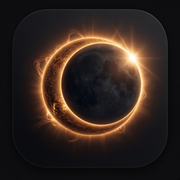
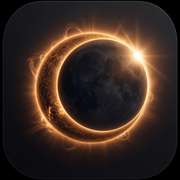
Use the old wordmark, a larger mark, and a black background
The name is Manrope again, lined up with a bigger eclipse. The page background is pure black.

diff --git a/src/components/Brand.tsx b/src/components/Brand.tsx
@@ -1,24 +1,29 @@
 export function BrandMark({ size = 28 }: { size?: number }) {
   return (
     <img
-      src={`${import.meta.env.BASE_URL}brand-mark.jpg`}
+      src={`${import.meta.env.BASE_URL}brand-mark.png`}
       width={size}
       height={size}
       alt=""
       draggable={false}
-      className="shrink-0 rounded-[22%]"
+      className="block shrink-0"
     />
   );
 }
 
 export function BrandWordmark({ size = "md" }: { size?: "sm" | "md" | "lg" }) {
   const scale =
-    size === "lg" ? "text-4xl" : size === "sm" ? "text-[17px]" : "text-2xl";
+    size === "lg"
+      ? "text-[34px] sm:text-[40px]"
+      : size === "sm"
+        ? "text-[15px]"
+        : "text-[22px]";
   return (
     <span
-      className={`font-['Playfair_Display'] font-bold leading-none text-[#D4AF37] ${scale}`}
+      className={`leading-none tracking-[0.26em] text-ink ${scale}`}
+      style={{ fontWeight: 600 }}
     >
-      Umbra
+      UMBRA
     </span>
   );
 }
@@ -26,15 +31,15 @@ export function BrandWordmark({ size = "md" }: { size?: "sm" | "md" | "lg" }) {
 export function BrandLockup({ size = "sm" }: { size?: "sm" | "lg" }) {
   if (size === "lg") {
     return (
-      <span className="inline-flex flex-col items-center gap-3">
-        <BrandMark size={112} />
+      <span className="inline-flex flex-col items-center gap-4">
+        <BrandMark size={132} />
         <BrandWordmark size="lg" />
       </span>
     );
   }
   return (
-    <span className="inline-flex items-center gap-2">
-      <BrandMark size={30} />
+    <span className="inline-flex items-center gap-2.5">
+      <BrandMark size={40} />
       <BrandWordmark size="sm" />
     </span>
   );

diff --git a/index.html b/index.html
@@ -5,14 +5,14 @@
     <link rel="icon" type="image/png" sizes="32x32" href="%BASE_URL%favicon-32.png" />
     <link rel="apple-touch-icon" sizes="180x180" href="%BASE_URL%apple-touch-icon.png" />
     <meta name="viewport" content="width=device-width, initial-scale=1.0, viewport-fit=cover" />
-    <meta name="theme-color" content="#0a0a0a" />
+    <meta name="theme-color" content="#000000" />
     <meta name="description" content="Umbra — личная картотека фильмов и сериалов" />
     <meta name="apple-mobile-web-app-capable" content="yes" />
     <meta name="apple-mobile-web-app-title" content="Umbra" />
     <meta name="apple-mobile-web-app-status-bar-style" content="black-translucent" />
     <link rel="preconnect" href="https://fonts.googleapis.com" />
     <link rel="preconnect" href="https://fonts.gstatic.com" crossorigin />
-    <link href="https://fonts.googleapis.com/css2?family=IBM+Plex+Mono:wght@400;500&family=Manrope:wght@400;500;600;700&family=Playfair+Display:wght@700&display=swap" rel="stylesheet" />
+    <link href="https://fonts.googleapis.com/css2?family=IBM+Plex+Mono:wght@400;500&family=Manrope:wght@400;500;600;700&display=swap" rel="stylesheet" />
     <title>Umbra</title>
   </head>
   <body>

diff --git a/vite.config.ts b/vite.config.ts
@@ -28,14 +28,14 @@ export default defineConfig({
         "apple-touch-icon.png",
         "icon-192.png",
         "icon-512.png",
-        "brand-mark.jpg",
+        "brand-mark.png",
       ],
       manifest: {
         name: "Umbra",
         short_name: "Umbra",
         description: "Личная картотека фильмов и сериалов",
-        theme_color: "#0a0a0a",
-        background_color: "#0a0a0a",
+        theme_color: "#000000",
+        background_color: "#000000",
         display: "standalone",
         start_url: "/umbra/",
         scope: "/umbra/",

diff --git a/src/index.css b/src/index.css
@@ -3,7 +3,7 @@
 @theme {
   --font-sans: "Manrope", ui-sans-serif, system-ui, sans-serif;
   --font-mono: "IBM Plex Mono", ui-monospace, SFMono-Regular, monospace;
-  --color-canvas: #0a0a0a;
+  --color-canvas: #000000;
   --color-canvas-soft: #101010;
   --color-card: #141414;
   --color-hairline: #212121;

diff --git a/src/main.tsx b/src/main.tsx
@@ -22,7 +22,7 @@ class Boundary extends Component<
         <div
           style={{
             minHeight: "100dvh",
-            background: "#0a0a0a",
+            background: "#000000",
             color: "#fcfcfc",
             padding: 24,
             fontFamily: "Manrope, sans-serif",
